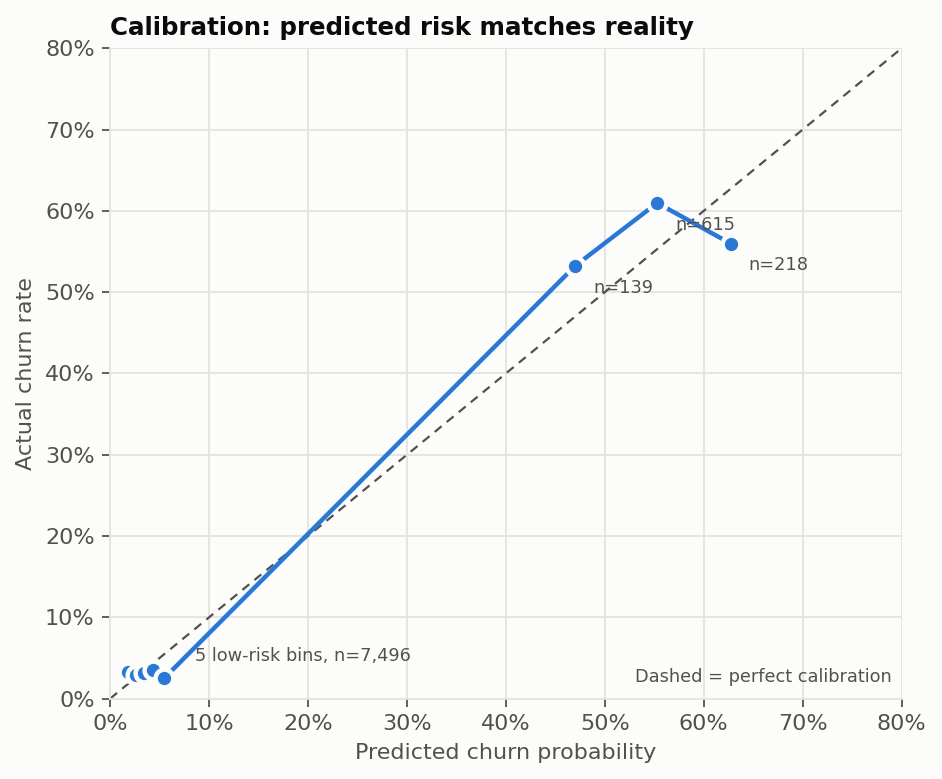
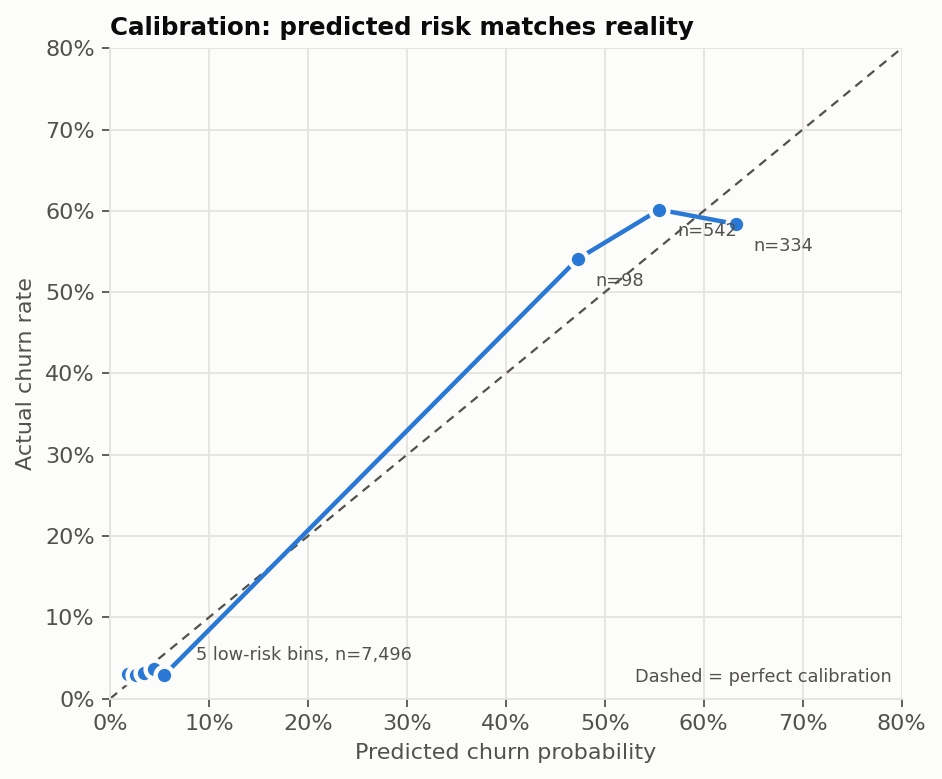
Fix overlapping-risk overprediction in churn model
Subscribers with both billing_repeat and promo_premium_low_usage were
predicted ~98% churn because logistic regression stacked the two
effects; they actually churn at ~54%. Add a billing_and_promo
interaction flag so the model learns the risks overlap. Out-of-fold
prediction for that group drops to ~71%; overall Brier improves
(0.0566 -> 0.0561), ROC-AUC 0.835 -> 0.834.

Claude-Session: https://claude.ai/code/session_01FqqxP1VwkZ7wBycCuNnXsW

diff --git a/features.py b/features.py
@@ -24,10 +24,14 @@ CATEGORICAL = [
 NUMERIC = ["tenure_months", "avg_weekly_hours", "support_tickets_90d"]
 
 # Interaction flags found in Phase 1 + 2 EDA. A linear model can't discover
-# "A AND B" on its own, so we hand it these two explicitly.
+# "A AND B" on its own, so we hand it these explicitly.
+# billing_and_promo corrects for the two risks overlapping rather than
+# stacking: without it, subscribers with both flags are predicted ~98% churn
+# when they actually churn at ~54%.
 ENGINEERED = {
     "billing_repeat": "2+ support tickets in 90 days and the last one was about Billing",
     "promo_premium_low_usage": "Signed up via Partner promo, on Premium, Low-usage content mix",
+    "billing_and_promo": "Has both billing_repeat and promo_premium_low_usage",
 }
 
 # monthly_spend is excluded: it is a deterministic function of plan_type.
@@ -46,6 +50,7 @@ def add_engineered_features(df: pd.DataFrame) -> pd.DataFrame:
         & (df["content_mix"] == "Low-usage")
         & (df["plan_type"] == "Premium")
     ).astype(int)
+    df["billing_and_promo"] = df["billing_repeat"] * df["promo_premium_low_usage"]
     return df
 
 

diff --git a/README.md b/README.md
@@ -55,13 +55,14 @@ All charts: [`figures/`](figures/). Heatmap cells with fewer than 30 subscribers
 | Model | ROC-AUC | PR-AUC | Brier |
 |---|---|---|---|
 | Logistic regression (raw features) | 0.823 | 0.418 | 0.0685 |
-| **Logistic regression + interaction flags** (chosen) | **0.835** | **0.469** | **0.0566** |
+| **Logistic regression + interaction flags** (chosen) | **0.834** | **0.465** | **0.0561** |
 | Gradient boosting (raw features) | 0.837 | 0.464 | 0.0586 |
 
-Phase 1 showed churn concentrates where two conditions meet, which a linear model can't learn on its own. Two engineered flags (`features.py`) fix that:
+Phase 1 showed churn concentrates where two conditions meet, which a linear model can't learn on its own. Engineered flags (`features.py`) fix that:
 
 - `billing_repeat`: 2+ support tickets in 90 days and the last one was about Billing
 - `promo_premium_low_usage`: signed up via Partner promo, on Premium, Low-usage content mix
+- `billing_and_promo`: has both of the above. Without it the model adds the two risks together and predicts ~98% churn for the 28 subscribers who have both, when they actually churn at ~54%. With it, their prediction drops to ~66–71%.
 
 With them, plain logistic regression matches gradient boosting while staying fully explainable through odds ratios. The top 10% of subscribers by predicted risk churn at ~60% (6.2× lift) and contain ~62% of all churners.
 
@@ -75,9 +76,9 @@ A shallow surrogate decision tree fitted to the out-of-fold churn probabilities 
 
 | Segment | Subscribers | Predicted churn | Revenue at risk / mo |
 |---|---|---|---|
-| S1 Partner-promo Premium, low usage | 322 | 59% | $2,449 |
-| S2 Repeat billing complaints | 682 | 56% | $4,081 |
-| S3 Everyone else (baseline) | 7,496 | 3% | $2,626 |
+| S1 Partner-promo Premium, low usage | 322 | 61% | $2,543 |
+| S2 Repeat billing complaints | 682 | 56% | $4,071 |
+| S3 Everyone else (baseline) | 7,496 | 3% | $2,546 |
 
 ![Risk segments](figures/11_risk_segments.png)
 
